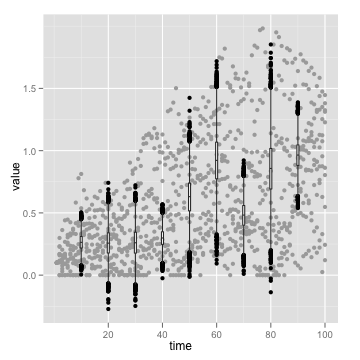
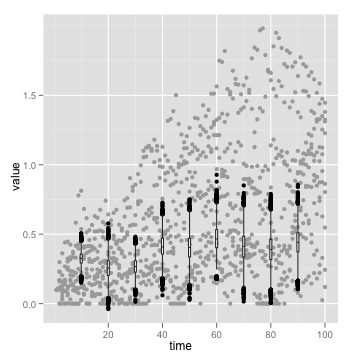
added lik/bayes naive sampling with bayes properly implemented

diff --git a/monitoring_knit_.md b/monitoring_knit_.md
@@ -141,9 +141,8 @@ Tradeoff from status (left) to trend (right) with constant effort
   
 <!--begin.rcode est-recov-lik,echo=FALSE,cache=TRUE,warning=FALSE  
 require(bbmle)
-time =10
-
 require(ggplot2)
+
 r.m <- melt(r.d, id.vars=c('time'))
 g <- ggplot()+geom_point(aes(time, value), color='darkgrey', data=r.m)
 
@@ -168,10 +167,6 @@ Likelihood-based, treated like independent samples (no population model)
 **Bayes**
   
 <!--begin.rcode est-recov-lik,echo=FALSE,cache=TRUE,warning=FALSE  
-require(bbmle)
-time =10
-
-require(ggplot2)
 r.m <- melt(r.d, id.vars=c('time'))
 g <- ggplot()+geom_point(aes(time, value), color='darkgrey', data=r.m)
 
@@ -182,6 +177,8 @@ for(time in 1:9*10){
   post.t <- sample.naive.posterior(ml.t)
   if(is.null(prior)){
     prior <- c(coef(ml.t)['mu'], coef(ml.t)['sigma'])
+  }
+  if(!is.null(prior)){
     post.t$mu <- sample(post.t$mu, replace=TRUE, prob=dnorm(post.t$mu, mean=prior[1], sd=prior[2]))
   }
   post.t$time = time
